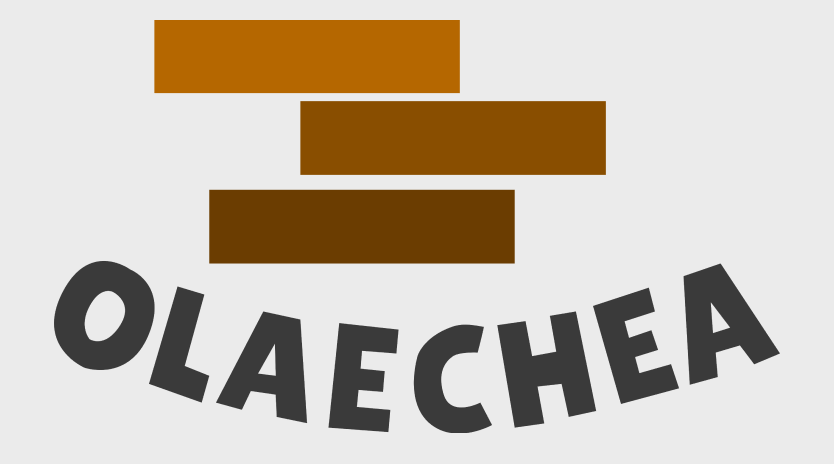
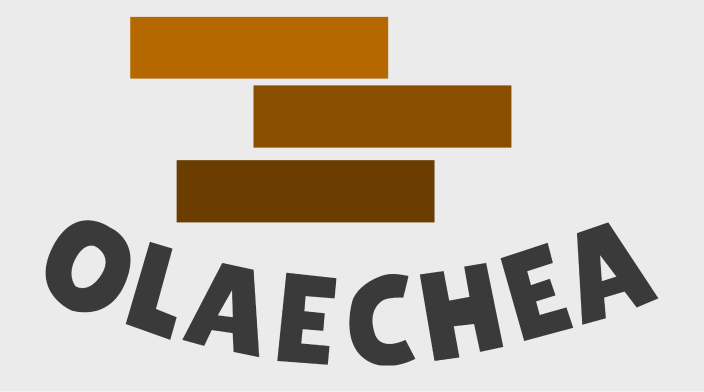
Mejore un monton
Mejore la imagen tamaño y centrada, puse h1 oswald

Changed region(s): [[0.4375, 0.9184, 0.4688, 0.949]]

diff --git a/index.html b/index.html
@@ -47,7 +47,7 @@
 <body id="page-top">
 
   <!-- Navigation -->
-  <nav class="navbar navbar-expand-lg navbar-light fixed-top py-3" id="mainNav">
+  <nav class="navbar navbar-expand-sm navbar-light fixed-top py-3" id="mainNav">
     <div class="container">
       <div>
       <img src="../img/logo.png" alt="" width="100px" height="100px">
@@ -81,22 +81,23 @@
     <div class="container h-100">
       <section id="inicio"></section>
       <div class="bg-image" img src="img/IMG_6373 1.png" alt="img" class="imagen justify-content-center">
-        
+        <br>
        <div class="row h-100 align-items-center justify-content-center text-center image-center">
          <div class="col-lg-10 align-self-end">
           <br>
           <br>
          <!--  <h1 class="text-uppercase font-weight-bold olaechea-class">Olaechea</h1>
-          <h2 class="text-uppercase text-white font-weight-bold">Pisos de Madera</h2>-->
-         <div class="wrapper">
+          <h2 class="text-uppercase text-white font-weight-bold">Pisos de Madera</h2>
+         <div class="wrapper">-->
           <div class="container align-items-center justify-content-center text-center image-center">
             <img src="img/Group 1.png" alt="img" class="imagen justify-content-center" >
             
           </div>
         </div>
             <div class="container">
-              -<h1 class="titulo1 text-center">Olaechea</h1>    
-              <h2 class="titulo2 text-center">Pisos de Madera <br>Le damos vida a tus pisos</h2>
+              <h1 class="titulo1 text-center"> Pisos de Madera</h1>
+              <h2 class="text-center">Le damos vida a tus pisos</h2>
+              <h3>Colocación       Reparación     Restauración</h3>
             </div>
           </div>
           <hr class="divider my-4">

diff --git a/css/creative.css b/css/creative.css
@@ -76,9 +76,8 @@ article, aside, figcaption, figure, footer, header, hgroup, main, nav, section {
   color: rgb(212, 212, 212);
   background-color: rgba(0, 0, 0, 0.24);
   font-family: oswald;*/
-  background-image: url(../img/Group\ 1.png) center;
-  image-orientation: center;
-  size: center;
+  font-family: oswald;
+  color: white;
 }
 image {
   background-image: url(../img/Group\ 1.png) center;
